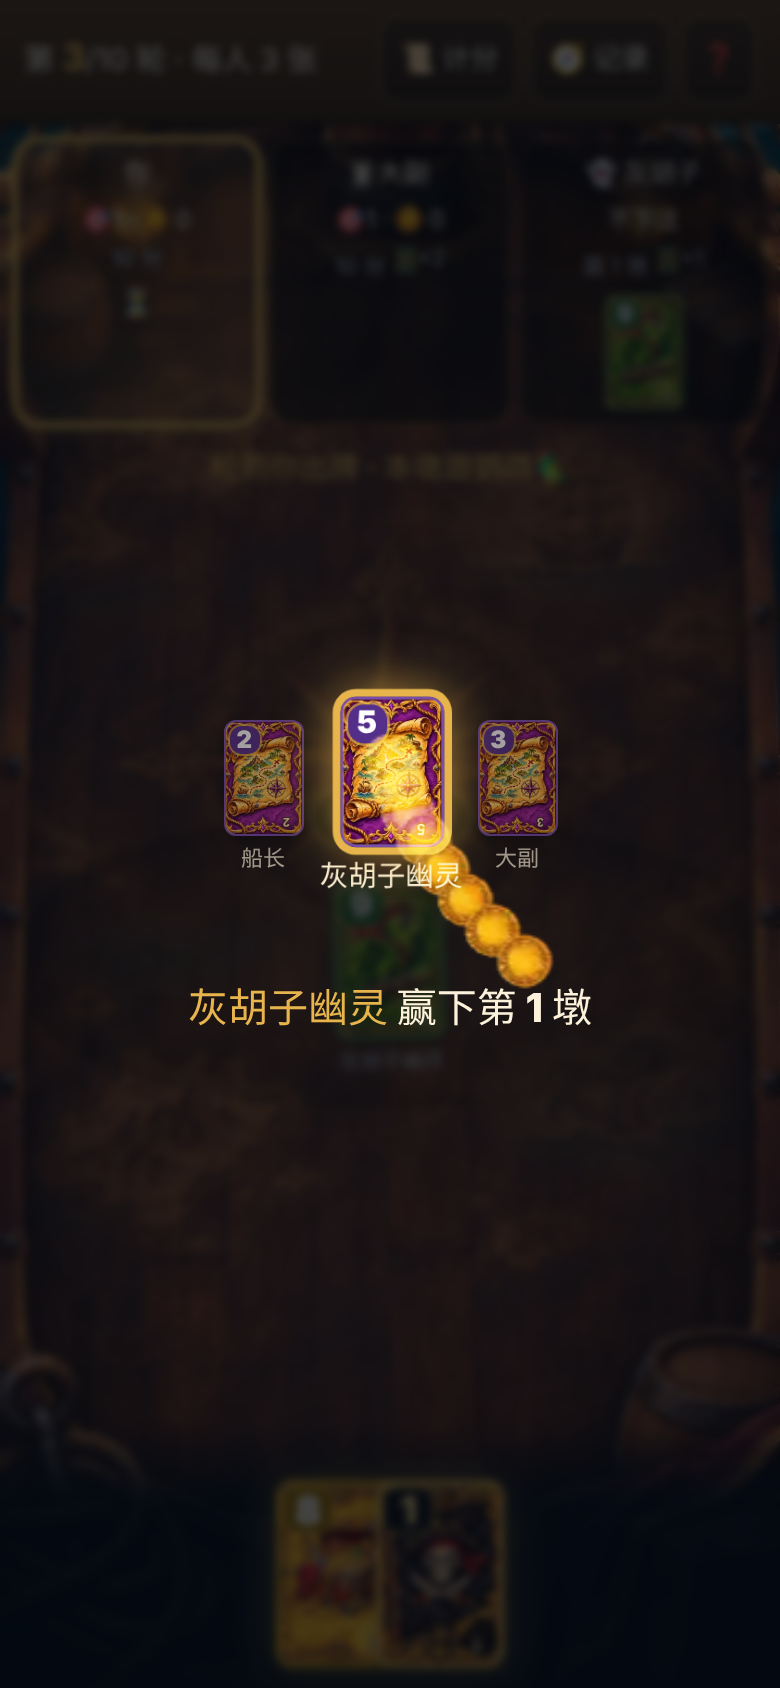
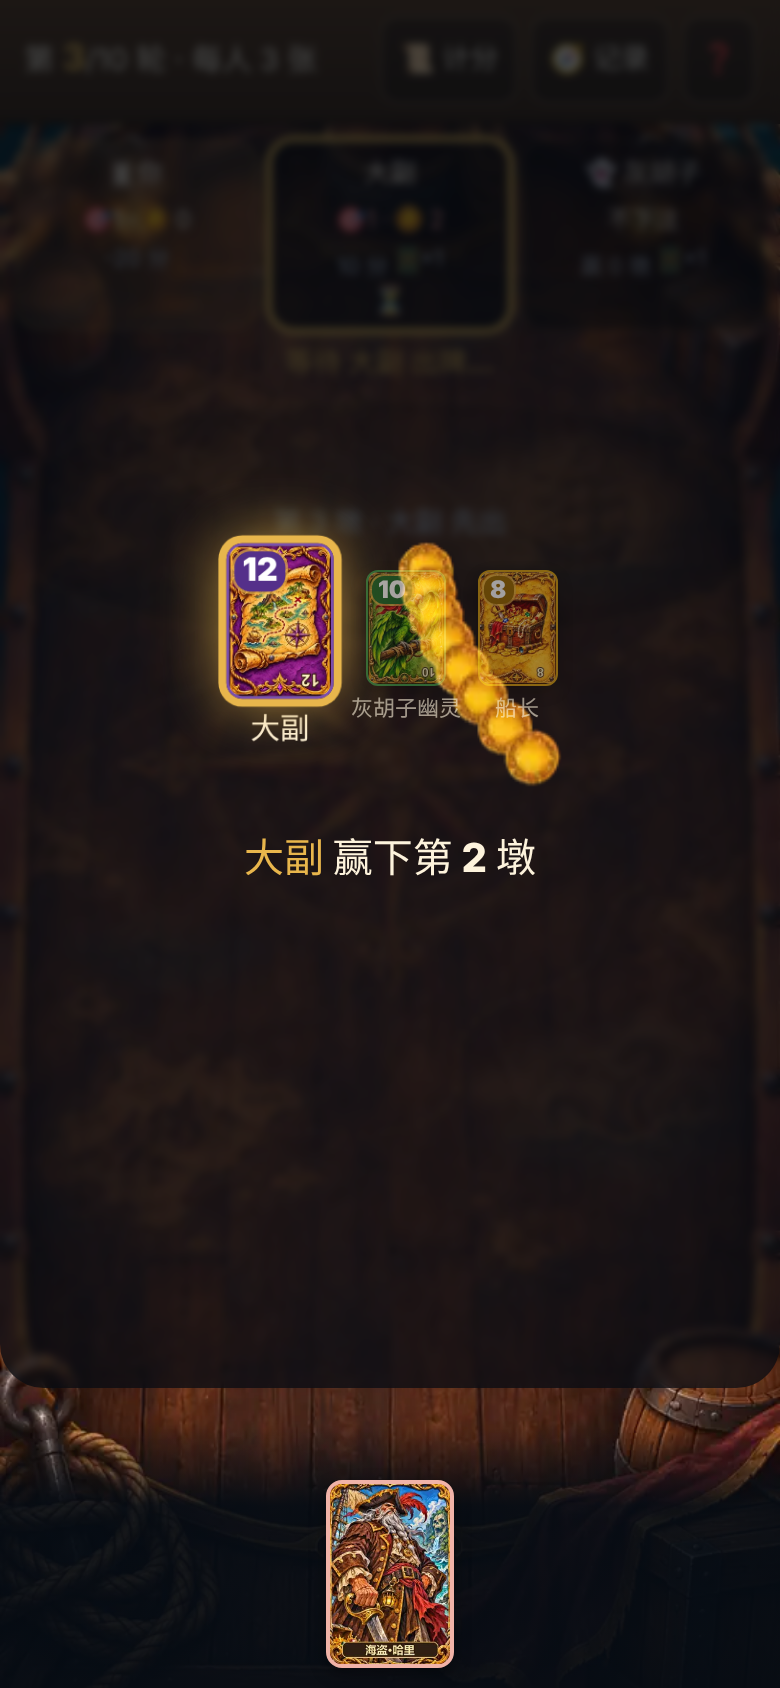
骷髅王：手机体验审计修正（一屏布局、座位精简、结算按钮固定、结算横幅不挡手牌、人机提速、特效居中）
Claude-Session: https://claude.ai/code/session_01D4Ygyof1YC3PxstBDzFQZk

diff --git a/scripts/audit-sk-mobile.ts b/scripts/audit-sk-mobile.ts
@@ -1,0 +1,183 @@
+// 骷髅王手机体验审计：1 名真人 + 人机，逐阶段截图并自动检查遮挡、溢出、点击区域、卡顿
+import { chromium, type Page } from "playwright";
+import { spawn } from "node:child_process";
+import { createServer } from "node:net";
+import { mkdtempSync, mkdirSync, writeFileSync } from "node:fs";
+import { tmpdir } from "node:os";
+import { join } from "node:path";
+const root = mkdtempSync(join(tmpdir(), "sk-audit-"));
+const out = "docs/skull-king/audit";
+mkdirSync(out, { recursive: true });
+const finder = createServer();
+await new Promise<void>((r) => finder.listen(0, "127.0.0.1", r));
+const port = (finder.address() as any).port;
+await new Promise<void>((r) => finder.close(() => r()));
+const base = `http://127.0.0.1:${port}`;
+const delay = (ms: number) => new Promise((r) => setTimeout(r, ms));
+const env: Record<string, string> = { ...(process.env as any), PORT: String(port), HOST: "127.0.0.1", WT_DISABLE: "1" };
+for (const k of ["SK", "DU", "SS", "DBD", "RK", "DM", "MA", "CN", "RR", "XB", "DP", "KB", "ND", "TA", "BF"]) env[k + "_DATA_DIR"] = join(root, k.toLowerCase());
+const child = spawn(process.execPath, ["--import", "tsx", "apps/server/src/main.ts"], { env, stdio: "ignore" });
+for (let i = 0; i < 100; i++) { try { if ((await fetch(base)).ok) break; } catch {} await delay(200); }
+const browser = await chromium.launch(process.env.PW_CHROME ? { executablePath: process.env.PW_CHROME } : {});
+const issues: string[] = [];
+const seenShots = new Set<string>();
+const scenarios = [
+  { name: "2p-360", n: 2, w: 360, h: 640, toggles: ["克拉肯", "白鲸", "战利品", "海盗技能"], rascal: false },
+  { name: "4p-390", n: 4, w: 390, h: 844, toggles: ["克拉肯", "白鲸", "战利品", "海盗技能"], rascal: true },
+  { name: "6p-360", n: 6, w: 360, h: 640, toggles: ["海盗技能"], rascal: false },
+  { name: "8p-360", n: 8, w: 360, h: 640, toggles: ["克拉肯", "白鲸", "战利品", "海盗技能"], rascal: false },
+  { name: "8p-414", n: 8, w: 414, h: 896, toggles: [], rascal: false },
+];
+const stats: Record<string, any> = {};
+async function check(p: Page, tag: string) {
+  const r = await p.evaluate(() => {
+    const vw = innerWidth, vh = innerHeight;
+    const bad: string[] = [];
+    if (document.documentElement.scrollWidth > vw + 1) bad.push("页面横向溢出 " + document.documentElement.scrollWidth);
+    const rect = (s: string) => [...document.querySelectorAll(s)].map((e) => e.getBoundingClientRect());
+    for (const r of rect('[data-testid="sk-hand"] .sk-card')) if (r.left < -1 || r.right > vw + 1) bad.push("手牌超出屏幕");
+    const vis = (r: DOMRect) => r.width > 0 && r.height > 0;
+    const play = document.querySelector('[data-testid="sk-play"]')?.getBoundingClientRect();
+    const hand = document.querySelector('[data-testid="sk-hand"]')?.getBoundingClientRect();
+    if (hand && hand.bottom > vh + 2) bad.push("手牌被挤出屏幕底部");
+    for (const sel of ['[data-testid="sk-bid-go"]', '[data-testid="sk-play"]', '[data-testid="sk-next"]']) {
+      const e = document.querySelector(sel); if (!e) continue;
+      const r = e.getBoundingClientRect();
+      if (r.height < 40) bad.push(sel + " 按钮太小 " + Math.round(r.height));
+      const cx = r.left + r.width / 2, cy = r.top + r.height / 2;
+      if (cy > vh || cy < 0) { bad.push(sel + " 按钮在屏幕外 y=" + Math.round(cy)); continue; }
+      const top = document.elementFromPoint(cx, cy);
+      if (top && !e.contains(top)) bad.push(sel + " 被遮挡：" + (top.className || top.tagName));
+    }
+    const st = document.querySelector('[data-testid="sk-status"]')?.getBoundingClientRect();
+    if (st && vis(st) && (st.bottom > vh || st.top < 0)) bad.push("状态提示不在屏幕内");
+    const legal = [...document.querySelectorAll('[data-testid="sk-hand"] button.sk-card:not(.dim)')];
+    for (const e of legal) {
+      const r = e.getBoundingClientRect(), cx = Math.min(r.left + 10, vw - 2), cy = r.top + r.height / 2;
+      const t = document.elementFromPoint(cx, cy);
+      if (t && !e.contains(t) && !(t as HTMLElement).closest?.(".sk-card")) bad.push("手牌点不到：" + ((t as HTMLElement).className || t.tagName));
+    }
+    for (const e of document.querySelectorAll('.sk-bid-btn')) { const r = e.getBoundingClientRect(); if (r.width < 36) bad.push("下注按钮太小 " + Math.round(r.width)); }
+    for (const e of document.querySelectorAll('.sk-pl-name, .sk-pl-bid')) { const el = e as HTMLElement; if (el.scrollWidth > el.clientWidth + 2) bad.push("座位文字被截断：" + el.textContent); }
+    return bad;
+  });
+  for (const b of r) issues.push(`[${tag}] ${b}`);
+  return r;
+}
+for (const sc of scenarios) {
+  const ctx = await browser.newContext({ viewport: { width: sc.w, height: sc.h }, deviceScaleFactor: 2, hasTouch: true, isMobile: true });
+  const p = await ctx.newPage();
+  await p.addInitScript("window.__name = (f) => f");
+  const errors: string[] = [];
+  p.on("pageerror", (e) => errors.push(e.message));
+  p.on("console", (m) => m.type() === "error" && !m.text().includes("404") && errors.push(m.text()));
+  await p.goto(base + "/?game=sk");
+  await p.fill('[data-testid="sk-name"]', "我是船长名字很长");
+  await p.click('[data-testid="sk-create"]');
+  await p.click(`[data-testid="sk-count-${sc.n}"]`);
+  if (sc.rascal) { await p.click('.sk-chip:has-text("无赖计分")'); await delay(200); await p.click('.sk-toggle:has-text("炮弹")'); }
+  for (const t of sc.toggles) { await p.click(`.sk-toggle:has-text("${t}")`); await delay(120); }
+  await p.click('.sk-chip:has-text("速战速决")'); // 5 轮每轮 5 张（审计用，缩短时间）
+  for (let i = 1; i < sc.n; i++) { await p.click('[data-testid="sk-add-bot"]'); await delay(120); }
+  await p.click('[data-testid="sk-ready"]');
+  await check(p, sc.name + " 房间");
+  await p.screenshot({ path: `${out}/${sc.name}-00-room.png`, fullPage: true });
+  await p.click('[data-testid="sk-start"]');
+  const t0 = Date.now();
+  const lat: number[] = [];
+  let actions = 0, done = false, last = "", idleSince = Date.now(), rounds = 0;
+  const shot = async (k: string) => { const key = sc.name + k; if (seenShots.has(key)) return; seenShots.add(key); await p.screenshot({ path: `${out}/${sc.name}-${k}.png` }); };
+  let firstBanner = true, cnt = 0;
+  while (!done && Date.now() - t0 < 420_000) {
+    await delay(150);
+    const text = (await p.textContent("body")) ?? "";
+    if (text !== last) { last = text; idleSince = Date.now(); }
+    if (Date.now() - idleSince > 15000) { issues.push(`[${sc.name}] 画面 15 秒没变化，可能卡住`); await shot("stuck"); break; }
+    const banner = p.locator('[data-testid="sk-trick-banner"]');
+    if (await banner.count()) {
+      const kind = (await banner.getAttribute("class")) ?? "";
+      if (kind.includes("kraken")) await shot("kraken");
+      else if (kind.includes("whale")) await shot("whale");
+      else if ((await p.locator(".sk-capture").count())) await shot("mermaid");
+      else if ((await p.locator(".sk-badge-item").count())) await shot("bonus");
+      else if (firstBanner) { firstBanner = false; await delay(400); await shot("trick"); }
+      // 不点：观察自动消失 + 人机是否在横幅期间继续
+      cnt++;
+      if (cnt % 3 === 0) await banner.click().catch(() => {});
+      continue;
+    }
+    if (await p.locator('[data-testid="sk-bid-reveal"]').count()) { await delay(300); await shot("reveal"); continue; }
+    if (await p.locator('[data-testid="sk-bid-go"]').count()) {
+      await check(p, sc.name + " 下注");
+      await shot("bid");
+      const btns = p.locator(".sk-bid-btn"); const n = await btns.count();
+      await btns.nth(Math.min(1, n - 1)).click();
+      const s = Date.now(); await p.click('[data-testid="sk-bid-go"]');
+      await p.waitForSelector('[data-testid="sk-bid-go"]', { state: "detached", timeout: 5000 }).catch(() => issues.push(`[${sc.name}] 下注后按钮没反应`));
+      lat.push(Date.now() - s); actions++; continue;
+    }
+    const shotPanel = p.locator('[data-testid="sk-shot-panel"] button');
+    if (await shotPanel.count()) { await shot("shot"); await shotPanel.last().click(); actions++; continue; }
+    const ab = p.locator('[data-testid="sk-ability"]');
+    if (await ab.count()) {
+      const txt = (await ab.textContent()) ?? "";
+      const who = txt.match(/你的 (\S+) 赢/)?.[1] ?? "x";
+      await check(p, sc.name + " 技能");
+      await shot("ability-" + who);
+      const cards = p.locator('[data-testid="sk-ability"] .sk-peek button.sk-card');
+      if (await cards.count()) { const need = +(txt.match(/选 (\d)/)?.[1] ?? 2); for (let i = 0; i < need; i++) await cards.nth(i).click(); }
+      await p.locator('[data-testid="sk-ability"] button.sk-btn:not(:disabled)').last().click(); actions++; continue;
+    }
+    const tigSheet = p.locator('[data-testid="sk-tig-pirate"]');
+    if (await tigSheet.count()) { await shot("tigress"); await tigSheet.click(); continue; }
+    const legal = p.locator('[data-testid="sk-hand"] button.sk-card:not(.dim)');
+    if (await legal.count()) {
+      const dim = p.locator('[data-testid="sk-hand"] button.sk-card.dim');
+      if (await dim.count() && !seenShots.has(sc.name + "follow")) {
+        await dim.first().click(); await delay(200);
+        if (!(await p.locator(".sk-err").count())) issues.push(`[${sc.name}] 点不能出的牌没有提示`);
+        await shot("follow");
+      }
+      await check(p, sc.name + " 出牌");
+      await legal.last().click(); await delay(150);
+      await shot("select");
+      await check(p, sc.name + " 选牌后");
+      const s = Date.now();
+      await p.click('[data-testid="sk-play"]');
+      if (await p.locator('[data-testid="sk-tig-pirate"]').count()) { await shot("tigress"); await p.click('[data-testid="sk-tig-pirate"]'); }
+      await p.waitForSelector('[data-testid="sk-play"]', { state: "detached", timeout: 5000 }).catch(() => issues.push(`[${sc.name}] 出牌后没反应`));
+      lat.push(Date.now() - s); actions++; continue;
+    }
+    const next = p.locator('[data-testid="sk-next"]');
+    if (await next.count()) {
+      await check(p, sc.name + " 结算");
+      const txt = (await next.textContent()) ?? "";
+      if (txt.includes("再来")) { await shot("final"); await p.locator(".sk-sheet").evaluate((e) => (e.scrollTop = 99999)); await shot("final-bottom"); done = true; break; }
+      rounds++;
+      await shot("round-end");
+      await next.click(); continue;
+    }
+  }
+  // 看看规则与计分表
+  await p.click('[data-testid="sk-next"]').catch(() => {});
+  stats[sc.name] = { done, rounds, actions, avgLatencyMs: Math.round(lat.reduce((a, b) => a + b, 0) / Math.max(1, lat.length)), maxLatencyMs: Math.max(0, ...lat), seconds: Math.round((Date.now() - t0) / 1000), errors };
+  if (!done) issues.push(`[${sc.name}] 没打完`);
+  for (const e of errors) issues.push(`[${sc.name}] 页面报错 ${e}`);
+  await ctx.close();
+}
+// 规则页与计分表截图
+{
+  const ctx = await browser.newContext({ viewport: { width: 360, height: 640 }, deviceScaleFactor: 2, isMobile: true, hasTouch: true });
+  const p = await ctx.newPage();
+  await p.addInitScript("window.__name = (f) => f");
+  await p.goto(base + "/?game=sk"); await p.click("text=规则说明"); await delay(300);
+  await p.screenshot({ path: `${out}/rules.png` });
+  await p.goto(base + "/"); await delay(800);
+  await p.locator("text=骷髅王 Skull King").first().scrollIntoViewIfNeeded().catch(() => {});
+  await p.screenshot({ path: `${out}/hall.png` });
+  await ctx.close();
+}
+writeFileSync(`${out}/report.json`, JSON.stringify({ stats, issues: [...new Set(issues)] }, null, 1));
+console.log(JSON.stringify({ stats, issues: [...new Set(issues)].slice(0, 60) }, null, 1));
+await browser.close();
+child.kill();

diff --git a/apps/web/src/sk/skull-king.css b/apps/web/src/sk/skull-king.css
@@ -265,3 +265,27 @@ button.sk-card { cursor: pointer; }
 .sk-final .sk-victory { position: static !important; transform: none; animation: sk-fade 0.6s; height: 180px; max-height: none; width: 100%; max-width: 420px; object-fit: cover; object-position: center 40%; }
 .sk-sheet > * { flex-shrink: 0; }
 .sk-final .sk-rank { width: 100%; align-self: stretch; }
+
+/* 审计修正：固定一屏布局 */
+.sk-table { height: 100dvh; min-height: 0; overflow: hidden; }
+.sk-felt { min-height: 0; overflow-y: auto; justify-content: flex-start; padding-top: 4px; }
+.sk-trick { min-height: 120px; }
+.sk-hand-wrap { position: relative; flex: none; }
+.sk-hand { min-height: 0; padding-top: 16px; }
+.sk-played { font-size: 11px; color: #8ee69b; }
+.sk-pl-slot { line-height: 1; }
+.sk-seatbar.compact { gap: 4px; padding: 6px 6px 0; }
+.sk-seatbar.compact .sk-pl { padding: 4px 3px; gap: 0; border-radius: 9px; }
+.sk-seatbar.compact .sk-pl-name { font-size: 12px; }
+.sk-seatbar.compact .sk-pl-bid, .sk-seatbar.compact .sk-pl-score { font-size: 11px; }
+.sk-seatbar.compact .sk-backs { display: none; }
+.sk-status { padding: 6px 10px 2px; font-size: 14px; }
+@media (max-height: 700px) {
+  .sk-card.sk-lg { --w: 56px; --h: 82px; }
+  .sk-card.sk-md { --w: 48px; --h: 70px; }
+  .sk-trick { min-height: 100px; padding: 14px 6px 10px; }
+  .sk-top { padding: 6px 10px; }
+}
+.sk-sheet-foot { position: sticky; bottom: calc(-18px - env(safe-area-inset-bottom)); margin: 0 -14px calc(-18px - env(safe-area-inset-bottom)); padding: 10px 14px calc(14px + env(safe-area-inset-bottom)); background: linear-gradient(transparent, #1a120a 30%); }
+.sk-banner { bottom: 150px; border-radius: 0 0 22px 22px; } @media (max-height: 700px) { .sk-banner { bottom: 130px; } }
+.sk-fx { left: 50%; top: 50%; transform: translate(-50%, -50%); }

diff --git a/apps/web/src/sk/SkullKing.tsx b/apps/web/src/sk/SkullKing.tsx
@@ -550,6 +550,7 @@ function RoundEnd({ room, v, host }: { room: Room; v: SKView; host: boolean }) {
         </div>
       )}
       {fin && <ScoreTable v={v} />}
+      <div className="sk-sheet-foot">
       {host ? (
         <button className="sk-btn main wide" disabled={room.pending} onClick={() => room.act(fin ? { type: "REMATCH" } : { type: "NEXT_ROUND" })} data-testid="sk-next">
           {fin ? "再来一局" : `开始第 ${v.round + 2} 轮（每人 ${v.counts[v.round + 1]} 张）`}
@@ -557,6 +558,7 @@ function RoundEnd({ room, v, host }: { room: Room; v: SKView; host: boolean }) {
       ) : (
         <p className="sk-sub">等待船长{fin ? "开新局" : "开始下一轮"}…</p>
       )}
+      </div>
     </Sheet>
   );
 }
@@ -694,7 +696,7 @@ function Table({ room, v }: { room: Room; v: SKView }) {
           </button>
         </div>
       </header>
-      <div className={`sk-seatbar n${seats.length}`}>
+      <div className={`sk-seatbar n${seats.length}${seats.length >= 5 ? " compact" : ""}`}>
         {seats.map(({ i, p }) => {
           const turn = v.phase === "PLAY" && v.turn === i;
           const ghost = !p;
@@ -725,7 +727,7 @@ function Table({ room, v }: { room: Room; v: SKView }) {
                   </span>
                 )}
               </div>
-              <div className="sk-pl-slot">{slotFor(i) ? <SKCard id={slotFor(i)!.id} as={slotFor(i)!.as} size="sm" /> : turn ? <span className="sk-wait">⏳</span> : null}</div>
+              {(slotFor(i) || turn) && <div className="sk-pl-slot">{slotFor(i) ? <span className="sk-played">已出</span> : <span className="sk-wait">⏳</span>}</div>}
             </div>
           );
         })}

diff --git a/apps/server/src/sk-rooms.ts b/apps/server/src/sk-rooms.ts
@@ -117,7 +117,7 @@ export class SKRoom {
           case "ADD_BOT": {
             ensure(this.file.players.length < this.file.count, "房间已满");
             const used = new Set(this.file.players.map((p) => p.name));
-            const name = ["人机·独眼", "人机·木腿", "人机·铁钩", "人机·红胡子", "人机·鹦鹉", "人机·大副", "人机·水手"].find((n) => !used.has(n)) ?? "人机";
+            const name = ["🤖独眼", "🤖木腿", "🤖铁钩", "🤖红胡子", "🤖鹦鹉", "🤖大副", "🤖水手"].find((n) => !used.has(n)) ?? "人机";
             this.file.players.push({ id: randomBytes(12).toString("hex"), token: "bot:" + randomBytes(16).toString("hex"), name, ready: true, bot: true });
             break;
           }
@@ -158,7 +158,7 @@ export class SKRoom {
     else if (st.phase === "ROUND_END") seat = this.file.players[0]?.bot ? 0 : -1;
     if (seat < 0) return false;
     // 一墩刚结束时多等一会，让大家看清结果
-    const wait = st.phase === "PLAY" && st.trick.length === 0 && st.tricks.length ? 3000 : st.phase === "BID" ? 1200 : 1700;
+    const wait = st.phase === "PLAY" && st.trick.length === 0 && st.tricks.length ? 2700 : st.phase === "BID" ? 900 : 1100;
     if (now - this.file.updatedAt < wait) return false;
     return this.transaction(() => {
       this.file.state = reduceSK(st, st.phase === "ROUND_END" ? { type: "NEXT_ROUND", actor: 0 } : botMove(st, seat));
